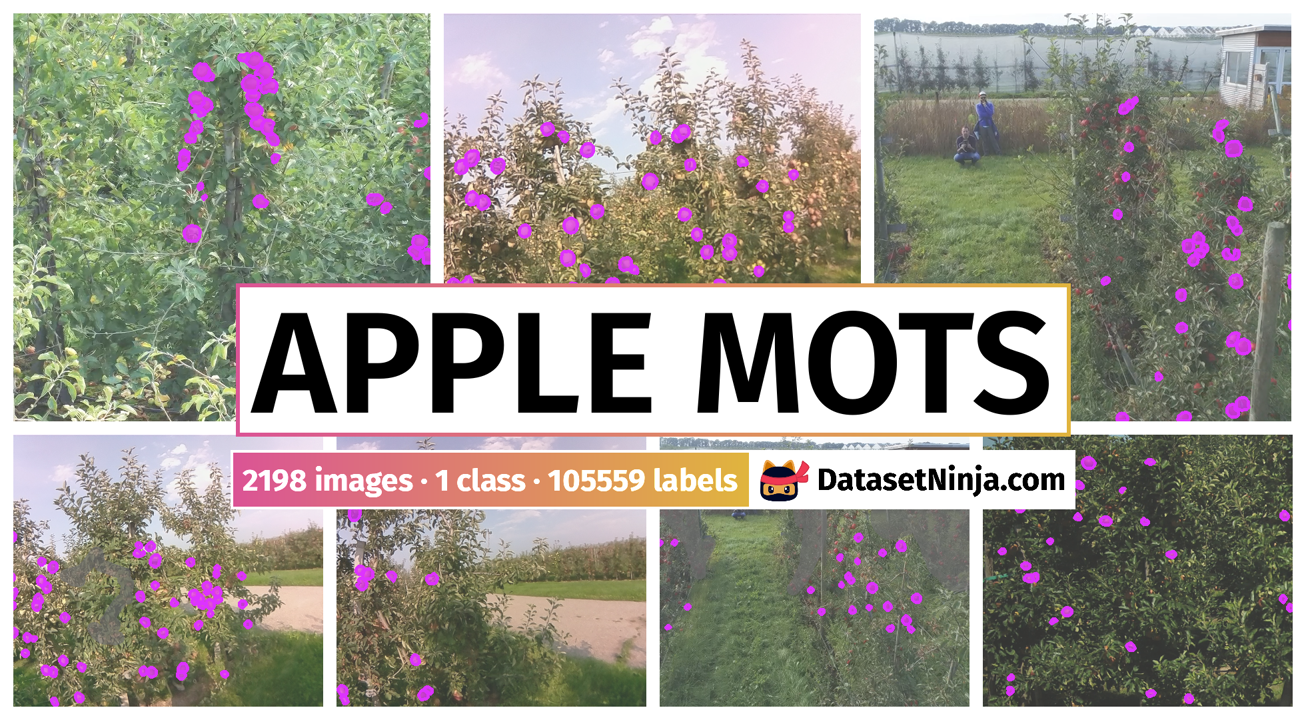
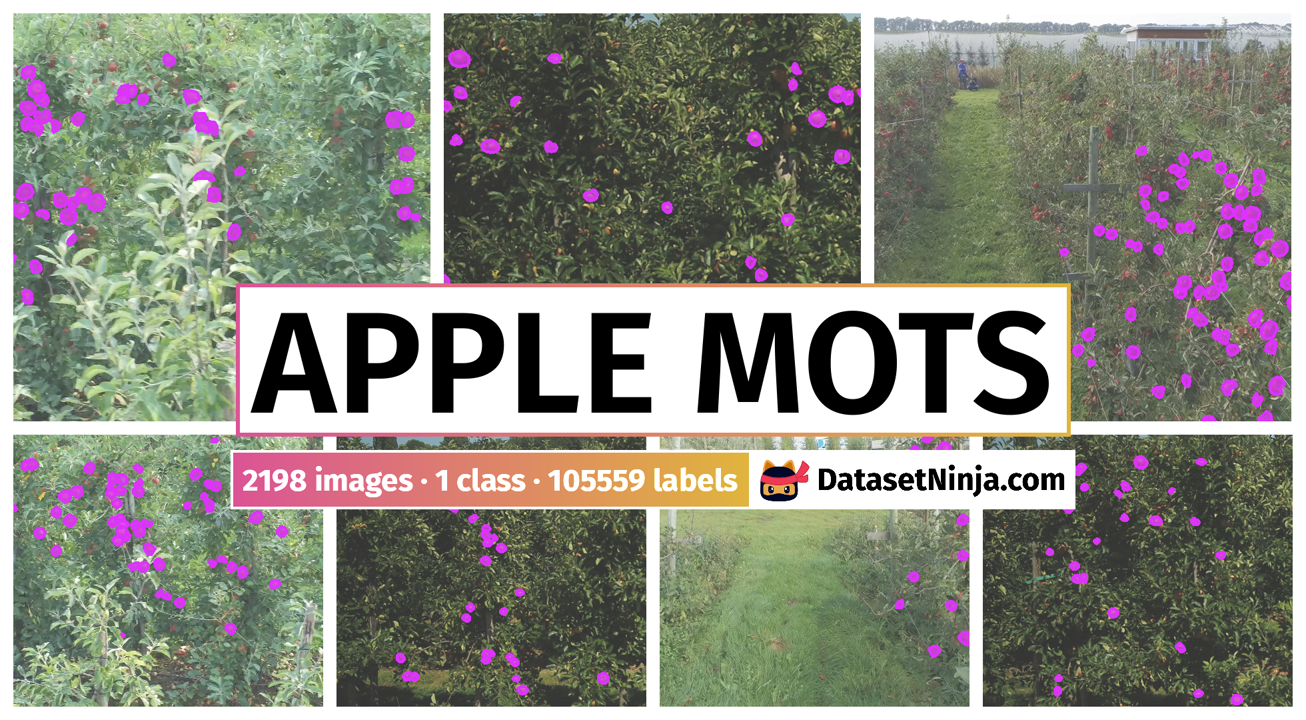
Automatic commit by repo-updater.

diff --git a/SUMMARY.md b/SUMMARY.md
@@ -2,8 +2,6 @@
 
 The dataset consists of 2198 images with 105559 labeled objects belonging to 1 single class (*apple*).
 
-Images in the Apple MOTS dataset have pixel-level instance segmentation annotations. Due to the nature of the instance segmentation task, it can be automatically transformed into a semantic segmentation (only one mask for every class) or object detection (bounding boxes for every object) tasks. All images are labeled (i.e. with annotations). There are 2 splits in the dataset: *testing* (1051 images) and *train* (1147 images). Alternatively, the dataset could be split . Additionaly, it could be splitted in 12 scenes. The dataset was released in 2022 by the Wageningen University & Research. Netherlands.
+Images in the Apple MOTS dataset have pixel-level instance segmentation annotations. Due to the nature of the instance segmentation task, it can be automatically transformed into a semantic segmentation (only one mask for every class) or object detection (bounding boxes for every object) tasks. All images are labeled (i.e. with annotations). There are 2 splits in the dataset: *testing* (1051 images) and *train* (1147 images). Additionaly, it could be splitted in 12 scenes. The dataset was released in 2022 by the Wageningen University & Research. Netherlands.
 
-Here is the visualized example grid with annotations:
-
-<img src="https://github.com/dataset-ninja/apple-mots/raw/main/visualizations/horizontal_grid.png">
+<img src="https://github.com/dataset-ninja/apple-mots/raw/main/visualizations/poster.png">
